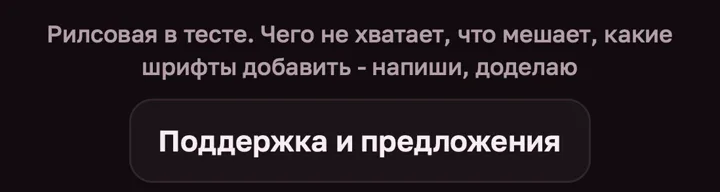
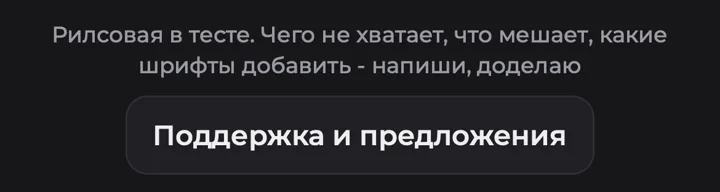
n-2f254e947957: инструкция Рилсовой в тёмно-золотом стиле, как приложение (03.11): палитра Карусельной, Montserrat со своего сайта, 16 скринов пересняты

diff --git a/n-2f254e947957/index.html b/n-2f254e947957/index.html
@@ -4,7 +4,7 @@
 <meta charset="utf-8">
 <meta name="viewport" content="width=device-width, initial-scale=1, viewport-fit=cover">
 <meta name="robots" content="noindex, nofollow">
-<meta name="theme-color" content="#120c0f">
+<meta name="theme-color" content="#17171a">
 <title>Рилсовая: как пользоваться</title>
 <meta name="description" content="Инструкция со скринами: забрать текст с чужого рилса, уникализировать его и поставить заголовок на своё видео">
 <meta property="og:title" content="Рилсовая: как пользоваться">
@@ -13,14 +13,16 @@
 <meta property="og:type" content="article">
 <style>
   :root {
-    --bg: #120c0f; --panel: #1c1418; --line: #33252c; --fg: #f6ecf1; --muted: #b49ea9;
-    --accent: #ff7aa6; --accent-ink: #2a0614; --yellow: #ffd600; --ok: #6fe0a6; --warn: #ff5a6a;
+    --bg: #17171a; --panel: #202024; --line: #2e2e34; --fg: #ededf0; --muted: #9a9aa2;
+    --accent: #C9B37E; --accent-ink: #1a1a1a; --yellow: #C9B37E; --ok: #6fe0a6; --warn: #ff6b6b;
     color-scheme: dark;
   }
   * { box-sizing: border-box; }
   html { -webkit-text-size-adjust: 100%; scroll-behavior: smooth; }
-  body { margin: 0; background: var(--bg); color: var(--fg);
-    font: 17px/1.55 -apple-system, BlinkMacSystemFont, "Segoe UI", Roboto, "Helvetica Neue", Arial, sans-serif; }
+  @font-face { font-family: "Montserrat UI"; font-style: normal; font-weight: 400 800; font-display: swap; src: url(/z-e56c728d/fonts/montserrat-cyr.woff2) format("woff2"); unicode-range: U+0301,U+0400-045F,U+0490-0491,U+04B0-04B1,U+2116; }
+  @font-face { font-family: "Montserrat UI"; font-style: normal; font-weight: 400 800; font-display: swap; src: url(/z-e56c728d/fonts/montserrat-lat.woff2) format("woff2"); unicode-range: U+0000-00FF,U+0131,U+0152-0153,U+02BB-02BC,U+02C6,U+02DA,U+02DC,U+0304,U+0308,U+0329,U+2000-206F,U+20AC,U+2122,U+2191,U+2193,U+2212,U+2215,U+FEFF,U+FFFD; }
+  body { margin: 0; background: radial-gradient(900px 420px at 50% -140px, rgba(201, 179, 126, .13), transparent 70%) no-repeat, var(--bg); color: var(--fg);
+    font: 500 16.5px/1.55 "Montserrat UI", -apple-system, BlinkMacSystemFont, "Segoe UI", Roboto, "Helvetica Neue", Arial, sans-serif; }
   .wrap { max-width: 640px; margin: 0 auto; padding: 20px 16px 56px; }
   a { color: var(--accent); text-underline-offset: 3px; }
   b, strong { font-weight: 650; }
@@ -52,15 +54,15 @@
   p { margin: 0 0 12px; }
   ol, ul { margin: 0 0 12px; padding-left: 22px; }
   li { margin: 0 0 8px; }
-  .btn-name { display: inline-block; background: #0f0a0c; border: 1px solid var(--line); border-radius: 8px;
+  .btn-name { display: inline-block; background: #161619; border: 1px solid var(--line); border-radius: 8px;
     padding: 0 7px; font-weight: 650; font-size: 15px; white-space: nowrap; }
   .ok { color: var(--ok); font-weight: 650; }
   .bad { color: var(--warn); font-weight: 650; }
 
   figure { margin: 14px auto 16px; max-width: 380px; }
-  figure img { display: block; width: 100%; height: auto; border-radius: 16px; border: 1px solid var(--line); background: #0f0a0c; }
+  figure img { display: block; width: 100%; height: auto; border-radius: 16px; border: 1px solid var(--line); background: #161619; }
   figcaption { font-size: 13.5px; color: var(--muted); margin-top: 7px; text-align: center; }
-  .tip { background: #241a1f; border-left: 3px solid var(--yellow); border-radius: 10px; padding: 11px 13px; margin: 0 0 14px; font-size: 15.5px; }
+  .tip { background: #26262b; border-left: 3px solid var(--yellow); border-radius: 10px; padding: 11px 13px; margin: 0 0 14px; font-size: 15.5px; }
   .tip b { color: var(--yellow); }
   .foot { text-align: center; color: var(--muted); font-size: 13px; margin-top: 26px; }
 </style>
@@ -92,7 +94,7 @@
     <li><span class="btn-name">Уникализатор</span> - забрать текст с чужого рилса или карусели и переделать его</li>
     <li><span class="btn-name">Загрузить видео</span> - поставить заголовок на своё видео</li>
   </ul>
-  <figure><img src="img/01-start.webp" width="720" height="756" alt="Первый экран Рилсовой: кнопки Уникализатор и Загрузить видео, под ними превью рилса"><figcaption>Первый экран</figcaption></figure>
+  <figure><img src="img/01-start.webp" width="720" height="794" alt="Первый экран Рилсовой: кнопки Уникализатор и Загрузить видео, под ними превью рилса"><figcaption>Первый экран</figcaption></figure>
 </section>
 
 <section id="tekst">
@@ -102,7 +104,7 @@
     <li>В Рилсовой нажмите <span class="btn-name">Уникализатор</span></li>
     <li>Вставьте ссылку в поле и нажмите <span class="btn-name">Забрать текст</span></li>
   </ol>
-  <figure><img src="img/02-link.webp" width="720" height="1226" alt="Уникализатор: поле для ссылки, кнопка Забрать текст, выбор От чьего лица" loading="lazy"><figcaption>Ссылка вставлена, осталось нажать «Забрать текст»</figcaption></figure>
+  <figure><img src="img/02-link.webp" width="720" height="936" alt="Уникализатор: поле для ссылки, кнопка Забрать текст, выбор От чьего лица" loading="lazy"><figcaption>Ссылка вставлена, осталось нажать «Забрать текст»</figcaption></figure>
   <p>Примерно через полминуты в окошках появятся заголовок с обложки и текст под рилсом. У карусели программа забирает текст со всех слайдов</p>
   <figure><img src="img/03-fetched.webp" width="720" height="860" alt="Заголовок рилса забран в окошко Заголовок с видео" loading="lazy"><figcaption>Заголовок забран с обложки моего рилса</figcaption></figure>
   <div class="tip"><b>Заголовок не распознался?</b> Сделайте скрин кадра, где виден заголовок, и нажмите <span class="btn-name">Загрузить скрин кадра с заголовком</span></div>
@@ -113,7 +115,7 @@
   <h2><span class="n">3</span>Уникализируйте</h2>
   <p>Сначала выберите, от чьего лица писать: <span class="btn-name">Как в оригинале</span>, <span class="btn-name">От мужчины</span>, <span class="btn-name">От женщины</span> или <span class="btn-name">Со стороны</span>. Взяли рилс у девушки, а вы мужчина - нажмите «От мужчины», и текст перепишется под вас</p>
   <p>Потом нажмите процент под окошком: 5, 10, 15, 20 или 30. Текст переделается прямо на месте</p>
-  <figure><img src="img/04-title.webp" width="720" height="922" alt="Заголовок уникализирован на 10 процентов, изменённые слова подсвечены" loading="lazy"><figcaption>Было «Большинство купили Алису», стало «Многие взяли Алису»</figcaption></figure>
+  <figure><img src="img/04-title.webp" width="720" height="982" alt="Заголовок уникализирован на 10 процентов, изменённые слова подсвечены" loading="lazy"><figcaption>Было «Большинство купили Алису», стало «Многие взяли Алису»</figcaption></figure>
   <ul>
     <li><b>Подсвечено</b> то, что программа поменяла. Не нравится правка - нажмите на неё, и вернётся оригинал</li>
     <li>Под окошком видно, сколько процентов слов изменено</li>
@@ -123,7 +125,7 @@
     <li><span class="btn-name">Править</span> - результат снова станет полем, поправьте руками. Следующий процент переделает уже ваш вариант</li>
   </ul>
   <p>Текст под рилсом уникализируется так же, в своём окошке</p>
-  <figure><img src="img/05-text.webp" width="720" height="774" alt="Текст под рилсом уникализирован, изменённые куски подсвечены" loading="lazy"><figcaption>Текст под рилсом после 10%</figcaption></figure>
+  <figure><img src="img/05-text.webp" width="720" height="1102" alt="Текст под рилсом уникализирован, изменённые куски подсвечены" loading="lazy"><figcaption>Текст под рилсом после 10%</figcaption></figure>
   <div class="tip"><b>Тире.</b> Кнопка «Длинное тире → короткое» включена сразу: длинные тире «—» в тексте станут обычными «-»</div>
   <ul>
     <li><b>Обращение к читателю.</b> <span class="btn-name">На «ты»</span> или <span class="btn-name">На «вы»</span> перепишет обращение во всём тексте</li>
@@ -142,7 +144,7 @@
     <li>Двигайте заголовок пальцем, двумя пальцами меняйте размер</li>
   </ol>
   <p>Вернуться к видео без переноса заголовка: кнопка <span class="btn-name">← К ролику</span> сверху</p>
-  <figure><img src="img/06-video.webp" width="720" height="756" alt="Заголовок в оформлении Бархат на видео, вокруг жёлтые рамки Instagram" loading="lazy"><figcaption>Заголовок на видео в оформлении «Бархат»</figcaption></figure>
+  <figure><img src="img/06-video.webp" width="720" height="794" alt="Заголовок в оформлении Бархат на видео, вокруг жёлтые рамки Instagram" loading="lazy"><figcaption>Заголовок на видео в оформлении «Бархат»</figcaption></figure>
   <p>Под видео два ползунка: <b>Размер заголовка</b> и <b>Тень вокруг букв</b>. Тень: 0 - без тени, 50 - родная у оформления, 100 - плотная тёмная кайма, если заголовок теряется на светлом фоне</p>
   <figure><img src="img/07-sliders.webp" width="720" height="250" alt="Ползунки Размер заголовка и Тень вокруг букв" loading="lazy"></figure>
 </section>
@@ -154,7 +156,7 @@
     <li>Внизу горит <span class="ok">В рилсе всё видно</span> - заголовок ничем не закрыт</li>
     <li>Горит красным <span class="bad">Заголовок заходит под…</span> - сдвиньте его или уменьшите</li>
   </ul>
-  <figure><img src="img/07b-toggles.webp" width="720" height="62" alt="Кнопки Рамки Instagram, Сетка 3:4, Пауза, По центру" loading="lazy"></figure>
+  <figure><img src="img/07b-toggles.webp" width="720" height="60" alt="Кнопки Рамки Instagram, Сетка 3:4, Пауза, По центру" loading="lazy"></figure>
   <ul>
     <li><span class="btn-name">Рамки Instagram</span> - показать или спрятать рамки. В готовое видео они не попадают</li>
     <li><span class="btn-name">Сетка 3:4</span> - какая часть кадра видна в сетке профиля</li>
@@ -170,12 +172,12 @@
   <h3>Заголовок</h3>
   <p>Эта вкладка открыта сразу. Здесь можно поправить заголовок руками. Каждая строка поля - строка заголовка на видео. В оформлении «Оригинал» слово в *звёздочках* выделится вторым цветом</p>
   <p><b>Заголовок встал одной длинной строкой и буквы мелкие?</b> Нажмите <span class="btn-name">Распределить текст</span>: программа сама разложит его на строки так, чтобы буквы были крупнее, а предлоги не висели в конце строки. Нужно ровно 4, 5 или 6 строк - нажмите плашку с числом</p>
-  <figure><img src="img/09-tab-title.webp" width="720" height="683" alt="Вкладка Заголовок: поле заголовка, кнопка Распределить текст и плашки 4, 5, 6 строк" loading="lazy"></figure>
+  <figure><img src="img/09-tab-title.webp" width="720" height="688" alt="Вкладка Заголовок: поле заголовка, кнопка Распределить текст и плашки 4, 5, 6 строк" loading="lazy"></figure>
 
   <h3>Оформление</h3>
   <p>11 готовых стилей. «Бархат» - объёмные плюшевые буквы, «Оригинал» - белый текст с тенью</p>
   <p><b>Мои стили.</b> Настроили заголовок как нравится - нажмите <span class="btn-name">Сохранить мой стиль</span>. На следующем ролике нажмите сохранённый стиль, и встанут оформление, шрифт, цвета, тень, размер, место и появление. Текст у каждого ролика свой, стиль его не меняет. Удалить стиль: крестик, потом ещё раз <span class="btn-name">Удалить?</span></p>
-  <figure><img src="img/08-looks.webp" width="720" height="1383" alt="Вкладка Оформление: Мои стили с кнопкой Сохранить мой стиль и 11 готовых стилей" loading="lazy"><figcaption>Сверху «Мои стили», под ними 11 готовых</figcaption></figure>
+  <figure><img src="img/08-looks.webp" width="720" height="1388" alt="Вкладка Оформление: Мои стили с кнопкой Сохранить мой стиль и 11 готовых стилей" loading="lazy"><figcaption>Сверху «Мои стили», под ними 11 готовых</figcaption></figure>
   <div class="tip"><b>Где хранятся стили.</b> В браузере этого телефона. Откроете Рилсовую в другом браузере или на другом телефоне - там свои стили</div>
 
   <h3>Шрифт</h3>
@@ -184,15 +186,15 @@
 
   <h3>Цвет</h3>
   <p>Сверху «Свой цвет»: нажмите на образец и выберите любой цвет для светлых и тёмных строк. Ниже готовые сочетания, первым чёрно-белое</p>
-  <figure><img src="img/11-tab-color.webp" width="720" height="1016" alt="Вкладка Цвет: сначала свой цвет, ниже готовые сочетания" loading="lazy"></figure>
+  <figure><img src="img/11-tab-color.webp" width="720" height="1020" alt="Вкладка Цвет: сначала свой цвет, ниже готовые сочетания" loading="lazy"></figure>
 
   <h3>Появление</h3>
   <p>Как заголовок появится в ролике: без анимации, выпрыгивает, падает сверху, по строкам или пульсирует</p>
-  <figure><img src="img/12-tab-anim.webp" width="720" height="441" alt="Вкладка Появление: варианты анимации" loading="lazy"></figure>
+  <figure><img src="img/12-tab-anim.webp" width="720" height="446" alt="Вкладка Появление: варианты анимации" loading="lazy"></figure>
 
   <h3>Время</h3>
   <p>На какой секунде заголовок появляется и когда исчезает</p>
-  <figure><img src="img/13-tab-time.webp" width="720" height="525" alt="Вкладка Время: ползунки появления и исчезновения" loading="lazy"></figure>
+  <figure><img src="img/13-tab-time.webp" width="720" height="532" alt="Вкладка Время: ползунки появления и исчезновения" loading="lazy"></figure>
 </section>
 
 <section id="sborka">
